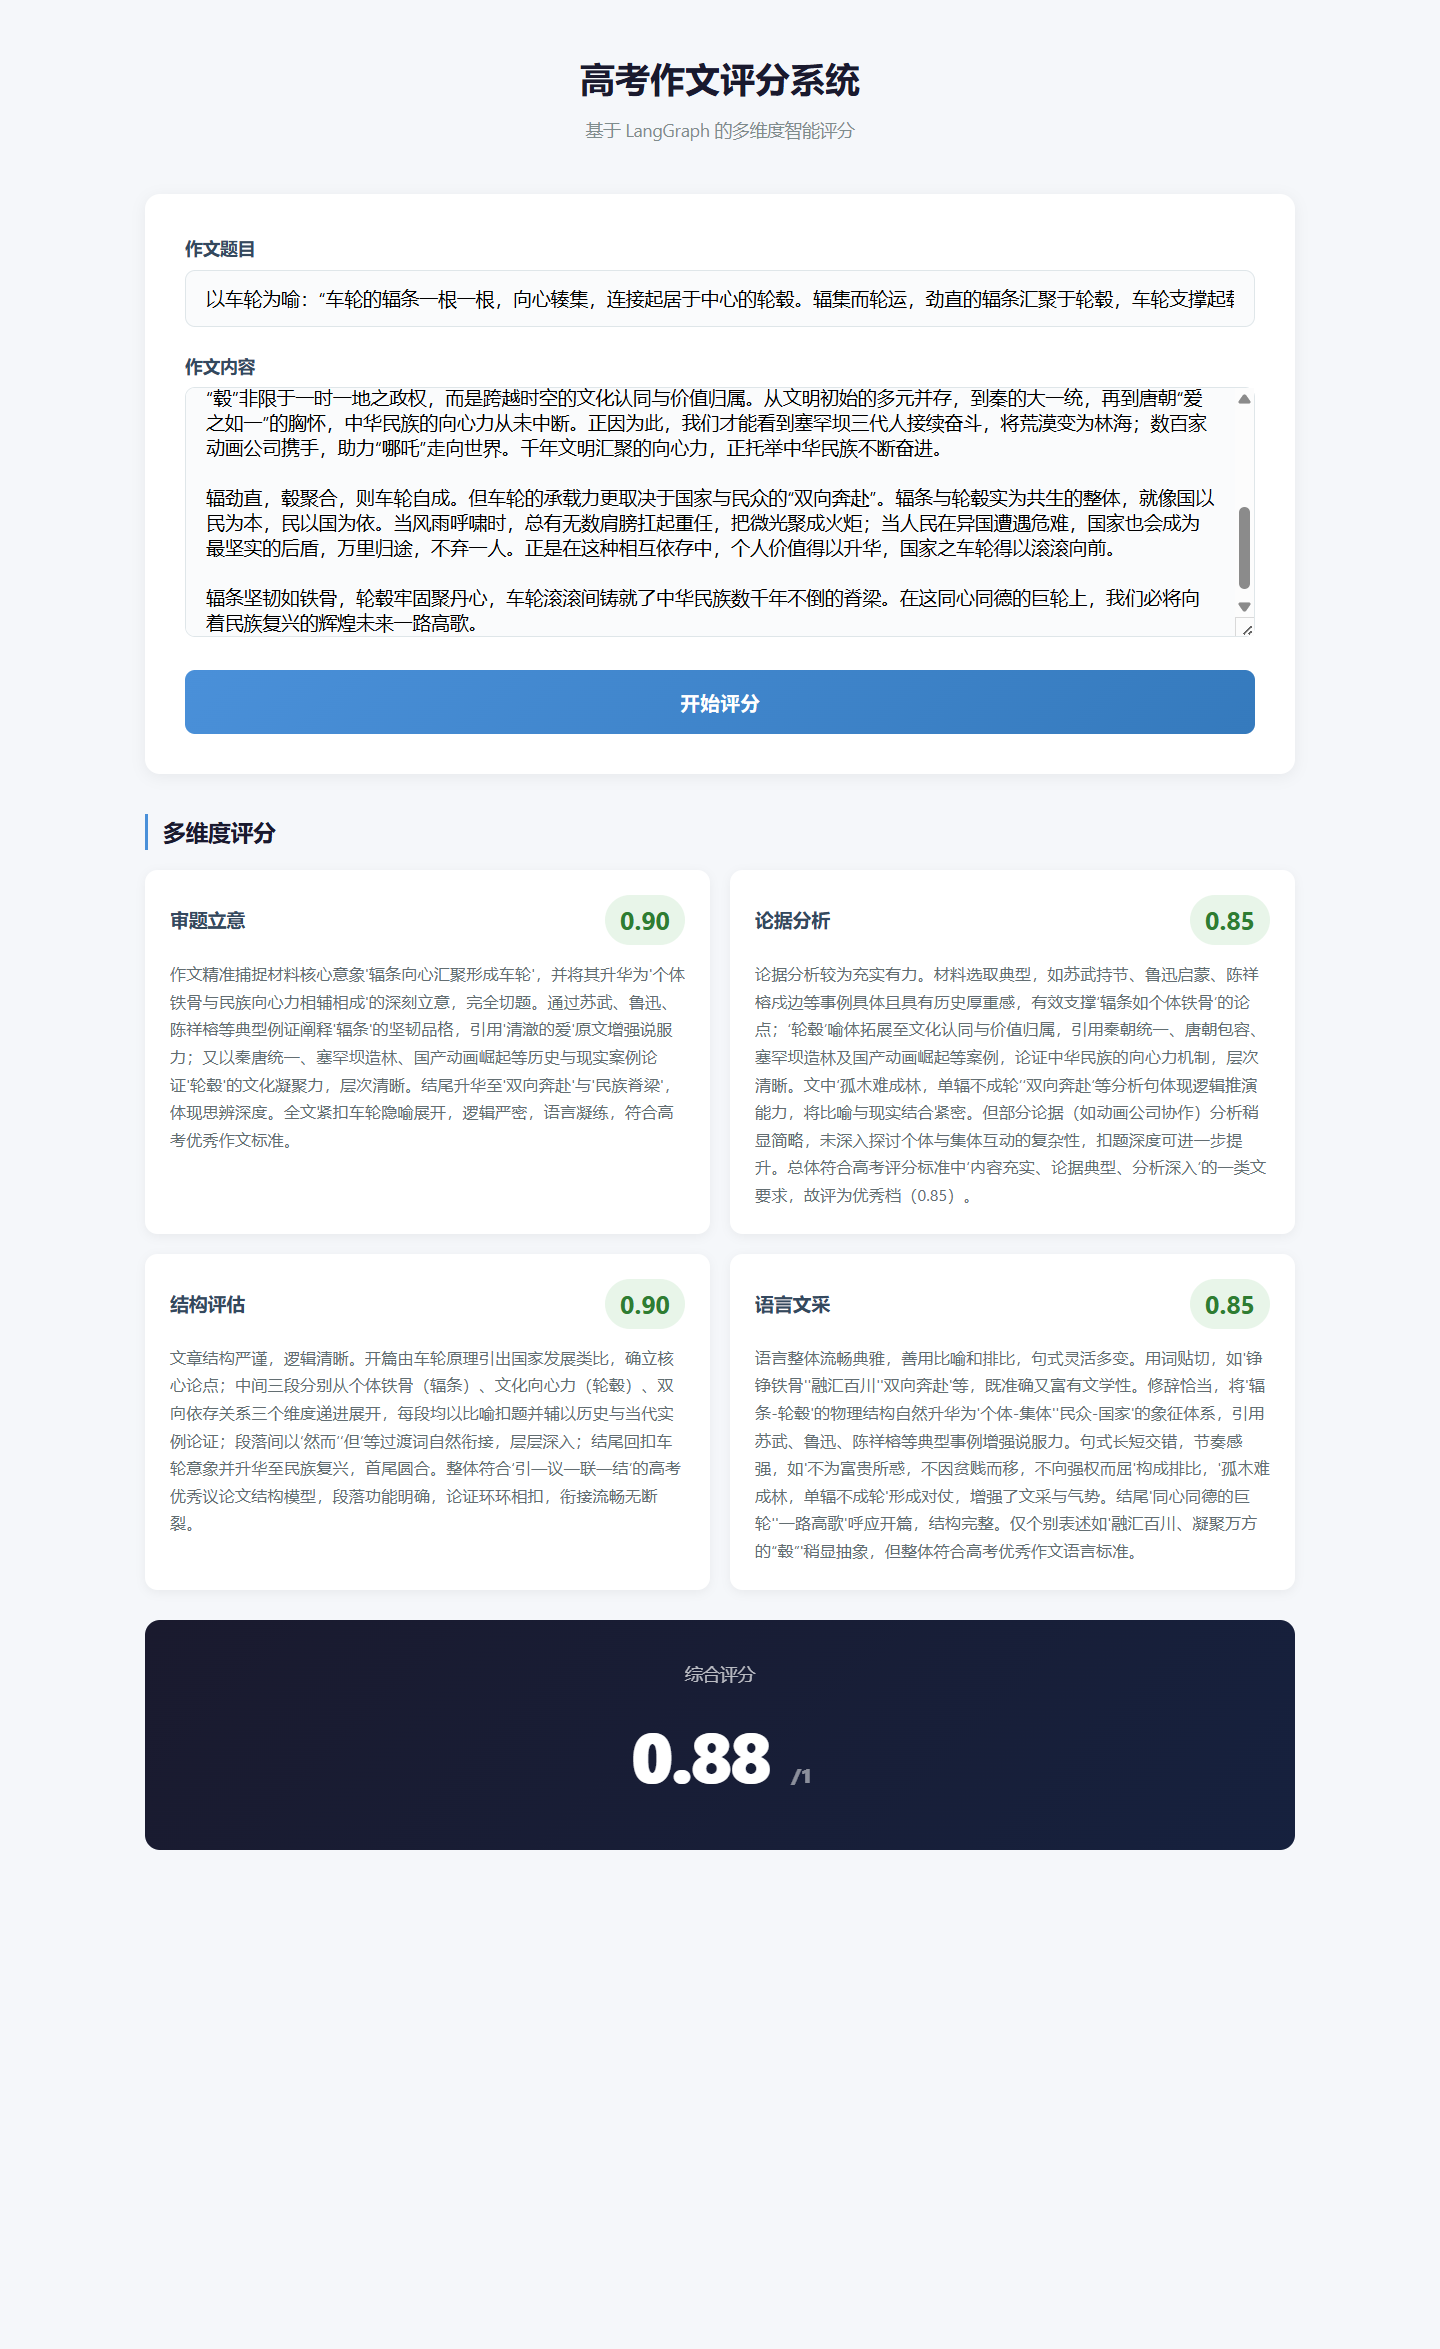
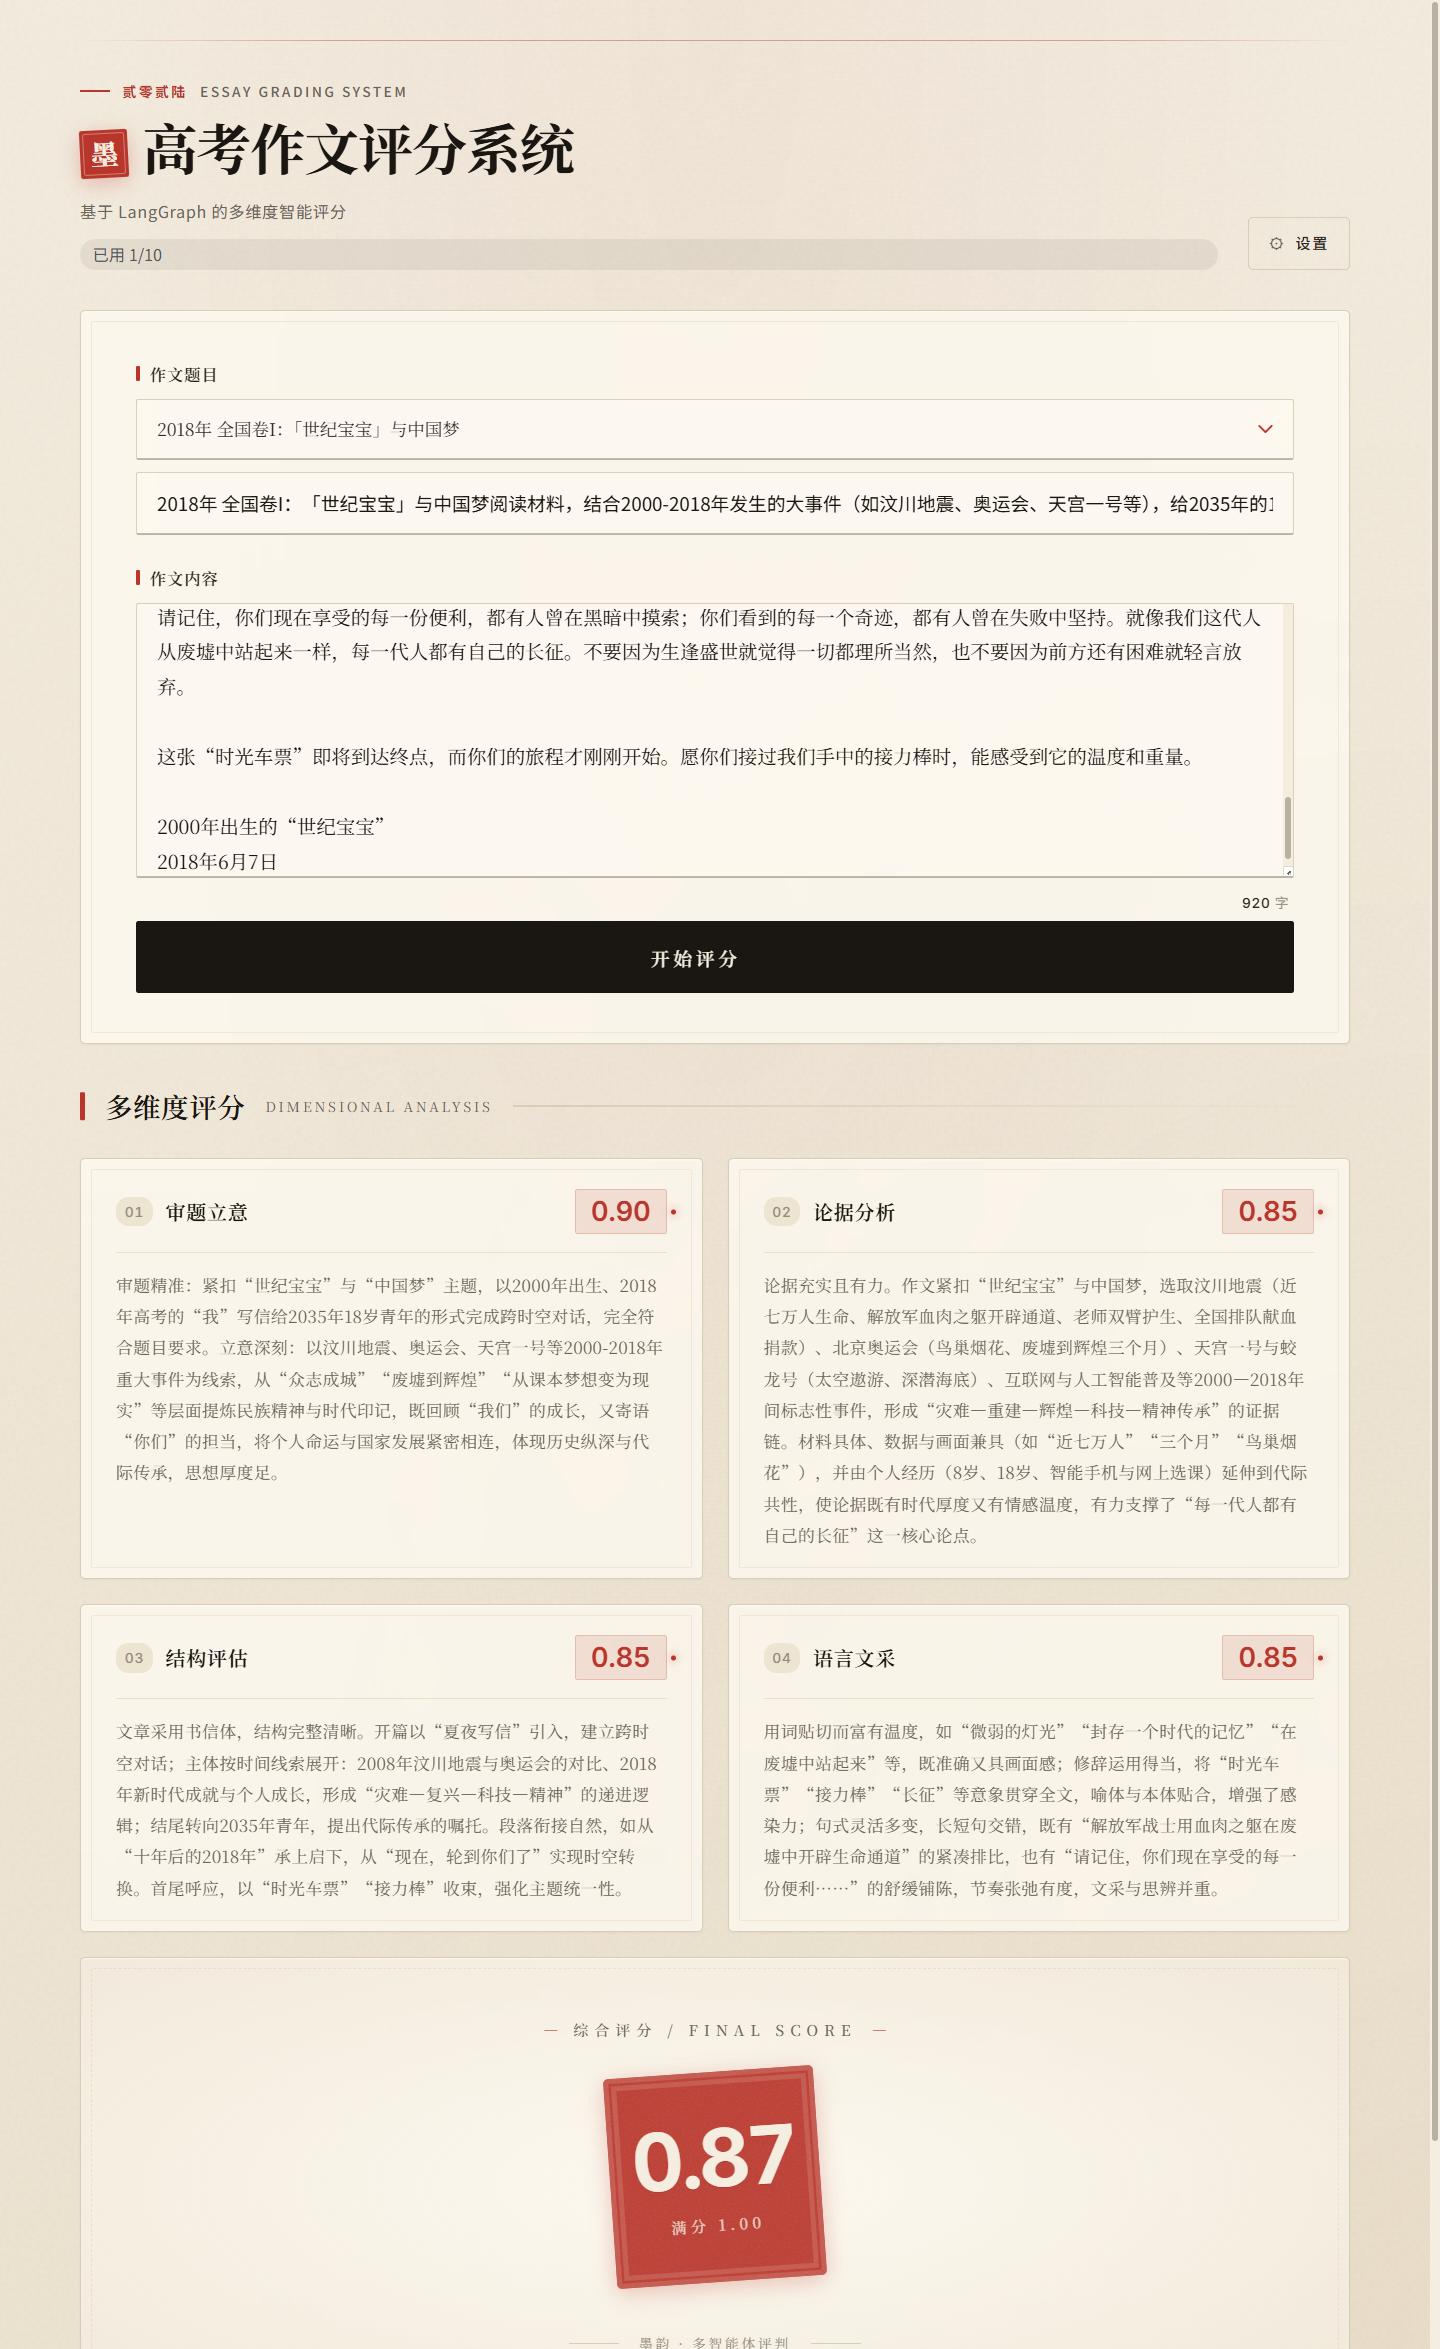
feat(header): 顶栏加入作者二维码入口，点击放大查看

diff --git a/src/styles/index.css b/src/styles/index.css
@@ -125,7 +125,7 @@ body {
 .app-header {
   display: grid;
   grid-template-columns: 1fr auto;
-  align-items: end;
+  align-items: start;
   gap: 24px;
   margin-bottom: 12px;
   padding-bottom: 20px;
@@ -274,6 +274,51 @@ h1 .wordmark-seal::after {
 .app-header-quota.exhausted {
   background: var(--vermillion-ink);
   color: var(--vermillion);
+}
+
+.app-header-right {
+  display: flex;
+  flex-direction: column;
+  align-items: flex-end;
+  gap: 14px;
+}
+
+.app-header-qr {
+  display: flex;
+  align-items: center;
+  gap: 10px;
+  text-decoration: none;
+  color: inherit;
+  padding: 8px 10px 8px 8px;
+  border: 1px solid var(--line);
+  border-radius: var(--radius-md);
+  background: rgba(255, 252, 244, 0.6);
+  transition: border-color var(--duration) var(--ease), background var(--duration) var(--ease);
+}
+
+.app-header-qr:hover {
+  border-color: var(--vermillion);
+  background: rgba(255, 252, 244, 0.9);
+}
+
+.app-header-qr img {
+  display: block;
+  width: 72px;
+  height: 72px;
+  border-radius: 2px;
+  background: #fff;
+  padding: 3px;
+  border: 1px solid var(--line-soft);
+  flex-shrink: 0;
+}
+
+.app-header-qr-tip {
+  font-family: var(--serif);
+  font-size: 12.5px;
+  color: var(--ink-soft);
+  line-height: 1.5;
+  max-width: 130px;
+  letter-spacing: 0.02em;
 }
 
 /* ================================================================
@@ -1101,6 +1146,23 @@ select option {
   .app-header {
     grid-template-columns: 1fr;
     align-items: start;
+  }
+
+  .app-header-right {
+    flex-direction: row;
+    align-items: center;
+    justify-content: space-between;
+    width: 100%;
+  }
+
+  .app-header-qr img {
+    width: 56px;
+    height: 56px;
+  }
+
+  .app-header-qr-tip {
+    font-size: 12px;
+    max-width: none;
   }
 
   .icon-btn {

diff --git a/src/components/Header.tsx b/src/components/Header.tsx
@@ -28,9 +28,21 @@ export function Header({ title, subtitle, quota, quotaExhausted = false }: Props
           </span>
         )}
       </div>
-      <Link to="/settings" className="icon-btn" aria-label="设置">
-        设置
-      </Link>
+      <div className="app-header-right">
+        <a
+          className="app-header-qr"
+          href="二维码.png"
+          target="_blank"
+          rel="noreferrer"
+          aria-label="扫码加作者"
+        >
+          <img src="二维码.png" alt="作者二维码" />
+          <span className="app-header-qr-tip">扫码可以加作者，支持一下</span>
+        </a>
+        <Link to="/settings" className="icon-btn" aria-label="设置">
+          设置
+        </Link>
+      </div>
     </div>
   );
 }

diff --git a/CHANGELOG.md b/CHANGELOG.md
@@ -2,6 +2,9 @@
 
 ## [Unreleased]
 
+### Added
+- 顶栏右上角加入作者二维码 (`public/二维码.png`) 及「扫码可以加作者，支持一下」提示，点击放大查看；移动端自适应为横向排布
+
 ### Changed
 - **配置**: 默认 LLM 连接信息（含 API Key）外置到 `src/config/llm-defaults.json`，新用户首次访问无需任何配置即可使用；老用户 localStorage 中的自定义配置仍然优先
 - **重构**: 整个项目从 Python (FastAPI + LangGraph) 迁移到 TypeScript (Vite + React)
